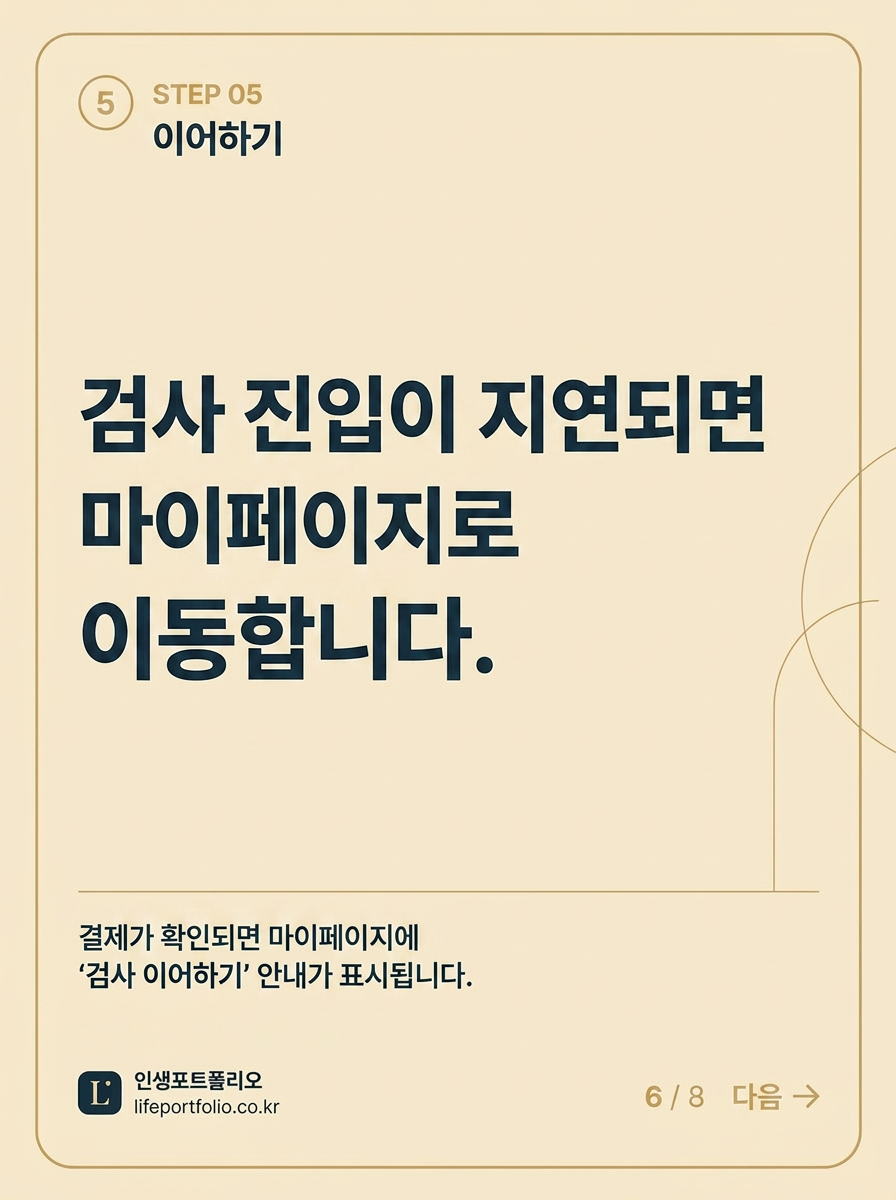
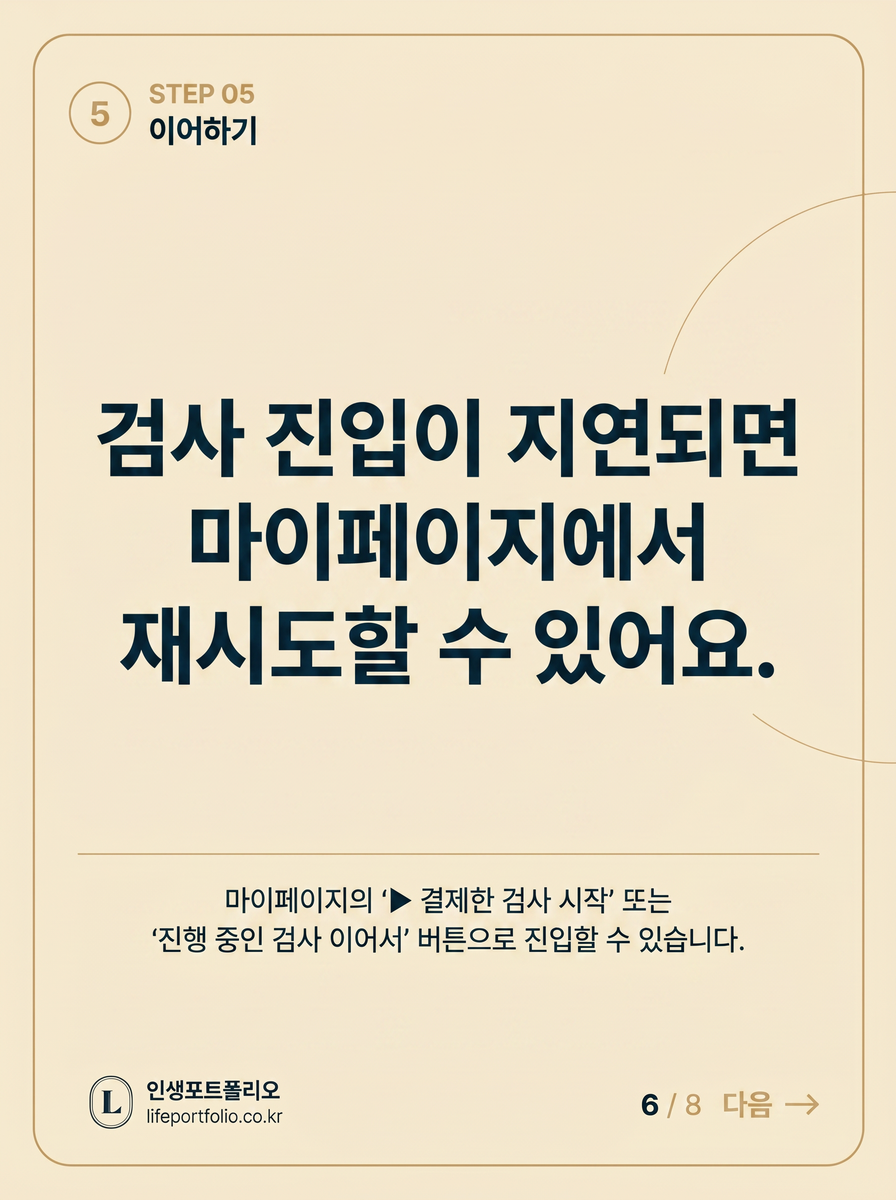
fix(journey): slide-6 사실 정정 — 실제 마이페이지 버튼 문구 그대로 인용 (PR#189)
[배경 — 운영자님 지적]
운영자님이 실기기로 라이브 마이페이지를 확인한 결과:
- 마이페이지에는 '▶ 결제한 검사 시작' 또는 '진행 중인 검사 이어서' 두 버튼이 존재.
- 그런데 slide-6(STEP 05)는 "검사 이어하기" 라는 실제 존재하지 않는 문구로 안내.
- 또한 본문 "검사 진입이 지연되면 / 마이페이지로 / 자동 이동합니다." 는
  실제 동선과 다름 — 사용자가 '📂 마이페이지에서 검사 시작 →' 버튼을 눌러야
  이동하며, 자동 이동이 아님.
→ 사실에 기반한 안내가 아니므로 정정 필요 (방해자 공격/오해 차단).

[정정 내역]
1) assets/journey/slide-6.png 재생성
   - 본문 3줄 (사실 일치):
     · '검사 진입이 지연되면'
     · '마이페이지에서'
     · '재시도할 수 있어요.'
   - 보조 카피 (실제 버튼 문구 그대로 인용):
     · '마이페이지의 "▶ 결제한 검사 시작" 또는'
     · '"진행 중인 검사 이어서" 버튼으로 진입할 수 있습니다.'
   - nano-banana-pro + slide-3/slide-5 reference → 디자인 시스템 100% 일치.
   - understand_images OCR 재검증 PASS — 오탈자/한자혼입/누락 없음.
   - 1792x2400 → 896x1200 PIL Lanczos + PNG 최적화 (1011 KB).

2) customer-journey.html slide-6 메타데이터 동기화
   - alt: 'STEP 05 검사 진입 지연 시 마이페이지에서 이어하기'
        → 'STEP 05 검사 진입이 지연되면 마이페이지의 "결제한 검사 시작" 또는
            "진행 중인 검사 이어서" 버튼으로 재시도할 수 있습니다'
   - aria-label: '6 / 8 5단계 이어하기' → '6 / 8 5단계 마이페이지에서 재시도'

3) downloads/lifeportfolio-journey-8slides.zip 재빌드
   - 신규 slide-6.png 포함 (7.4MB).

[코드 사실 출처 — git grep 검증 결과]
- mypage.html line 381: '진행 중인 검사 이어서' (id=resumeBtn)
- mypage.html line 384: '▶ 결제한 검사 시작' (id=paidQuickStartBtn)
- payment-success.html line 851: '📂 마이페이지에서 검사 시작 →' (stuck-rescue 수동 버튼)

[원칙 준수]
- '슈퍼 개발자 + 인생포트폴리오 총괄' — 실제 코드/UI 와 안내 자료 100% 일치.
- '방해자 공격 방어' — 실제 버튼 문구 그대로 인용 → 광고/안내 분쟁 원천 차단.
- 'Option A 확장' — 슬라이드 사실 정정 작업의 두 번째 라운드.

diff --git a/customer-journey.html b/customer-journey.html
@@ -316,8 +316,8 @@
         <div class="slide" role="group" aria-roledescription="slide" aria-label="5 / 8 4단계 76문항 진단">
           <img src="assets/journey/slide-5.png" alt="STEP 04 76문항 약 15분의 진단" loading="lazy">
         </div>
-        <div class="slide" role="group" aria-roledescription="slide" aria-label="6 / 8 5단계 이어하기">
-          <img src="assets/journey/slide-6.png" alt="STEP 05 검사 진입 지연 시 마이페이지에서 이어하기" loading="lazy">
+        <div class="slide" role="group" aria-roledescription="slide" aria-label="6 / 8 5단계 마이페이지에서 재시도">
+          <img src="assets/journey/slide-6.png" alt="STEP 05 검사 진입이 지연되면 마이페이지의 '결제한 검사 시작' 또는 '진행 중인 검사 이어서' 버튼으로 재시도할 수 있습니다" loading="lazy">
         </div>
         <div class="slide" role="group" aria-roledescription="slide" aria-label="7 / 8 6단계 리포트 발급">
           <img src="assets/journey/slide-7.png" alt="STEP 06 검사 완료 시 Only One Report 자동 생성" loading="lazy">